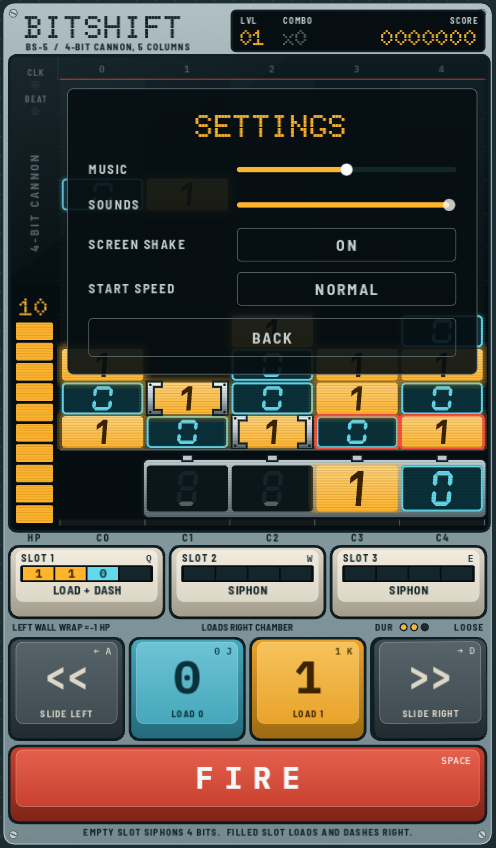
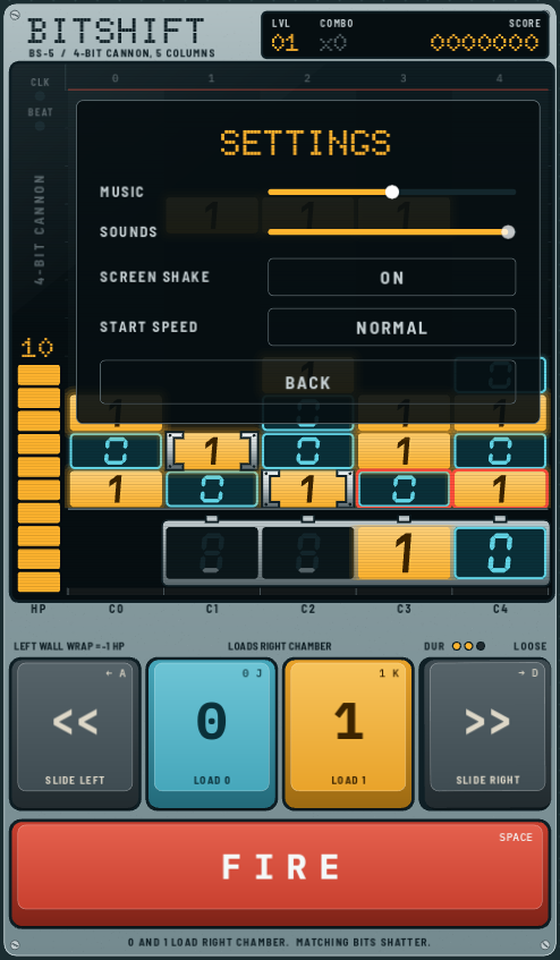
docs: update screenshots, demo video, YouTube card, and README for slot-free gameplay

diff --git a/README.md b/README.md
@@ -9,11 +9,11 @@
 ## Gameplay Demo
 
 <p align="center">
-  <a href="https://youtu.be/Nrycs1QVL5g">
+  <a href="https://youtube.com/shorts/vmq11YgHP1I">
     <img src="docs/video/youtube_card.png" alt="Watch BitShift Gameplay Demo on YouTube" width="360" style="max-width: 100%; border-radius: 10px; box-shadow: 0 4px 18px rgba(0,0,0,0.5);">
   </a>
   <br><br>
-  <a href="https://youtu.be/Nrycs1QVL5g">
+  <a href="https://youtube.com/shorts/vmq11YgHP1I">
     <img src="https://img.shields.io/badge/YouTube-Watch%20Gameplay%20Demo-red?style=for-the-badge&logo=youtube&logoColor=white" alt="Watch on YouTube">
   </a>
 </p>
@@ -45,25 +45,24 @@ Loading bits works like real digital hardware:
 - Existing bits slide left. If all 4 chambers are full, the oldest bit drops out.
 - Pressing **Space** fires all loaded chambers upward at once.
 
-### Matching vs. Misfires
+### Matching, Misfires & Locked Bits
 - **Match:** Hit a column with the same bit (`0` on `0`, `1` on `1`) to shatter it.
-- **Mismatch:** The shot sticks to the bottom of the column, pushing the stack closer to the top.
-- **Row Clears:** If an entire horizontal row across all 5 columns becomes the same bit, the whole row detonates for a score multiplier.
+- **Locked Bits:** Bits held in steel brackets take two matching shots—the first cracks the lock, the second shatters the bit.
+- **Mismatch:** The shot sticks to the bottom of the column, pushing the stack closer to the top and breaking your combo.
+- **Row Clears:** If an entire horizontal row across all 5 columns becomes the same bit, the whole row detonates for a big bonus—and cascading clears multiply as a chain.
+
+### Combos & Streaks
+Chaining clean hits without a misfire builds a live **Combo** multiplier:
+- Every consecutive hit raises your score multiplier and escalates the oscilloscope's edge aura, readout glow, and synthesized pitch through color tiers (`x2`, `x5`, `x10+`).
+- Big streaks trigger punchy hit-stop, screen shake, and milestone callouts.
+- A single misfire snaps the streak back to `x0`.
 
 ### The Broken Key
 The machine's physical hardware wears down as you play:
 - Sliding left (`<<`) is free and reliable.
-- Sliding right (`>>`) wears out the mechanical switch. After 3 uses, the keycap flies off and breaks.
-- To repair it, shoot green spare-switch bits (`*`) falling from the top.
-- If you're stuck without a right key, you can slam the cannon into the far left wall to wrap around to the right side—costing 1 HP in sparks and scraping metal.
-
-### Memory Slots & Superweapons
-You have three clipboard slots (keys **Q**, **W**, **E**):
-- **Siphon:** Pressing an empty slot sucks the bottom row of bits into memory.
-- **Paste:** Pressing a filled slot pastes those bits back into your cannon.
-  - Stacking matching bits transforms them into a **Laser** that cuts through up to 3 bits.
-  - Stacking differing bits creates an **Inversion Beam** that flips all bits in that column.
-  - Pasting also unleashes a 3-column **Recoil Dash** to the right, letting you move without wearing down your right key.
+- Sliding right (`>>`) wears out the mechanical switch. After 3 uses, the keycap works loose and breaks off.
+- To repair it, shoot bits carrying a green `+` spare-switch badge—the replacement flies in and restores 2 uses (or awards bonus points if the key is already intact).
+- If you're stuck without a right key, slam the cannon past the far left edge: it smashes into the HP bar and bounces back to the right side, costing 1 HP in sparks and scraping metal.
 
 ### Adaptive Procedural Audio
 There are no audio sample files (`.wav` or `.mp3`) in the project. All sound effects and the background music arpeggio are synthesized in real-time using GDScript math formulas and a 4-bit Linear Feedback Shift Register (LFSR).
@@ -80,7 +79,7 @@ There are no audio sample files (`.wav` or `.mp3`) in the project. All sound eff
 | Load 0 | `0` | `J` | Tap `0` |
 | Load 1 | `1` | `K` | Tap `1` |
 | Fire | `Space` | `Up` | Tap `FIRE` |
-| Memory Slots | `Q`, `W`, `E` | | Tap Slots 1–3 |
+| Toggle Music | `N` | | |
 | Pause | `P` or `Esc` | | |
 | Start / Restart | `Enter` | | Tap Start |
 
